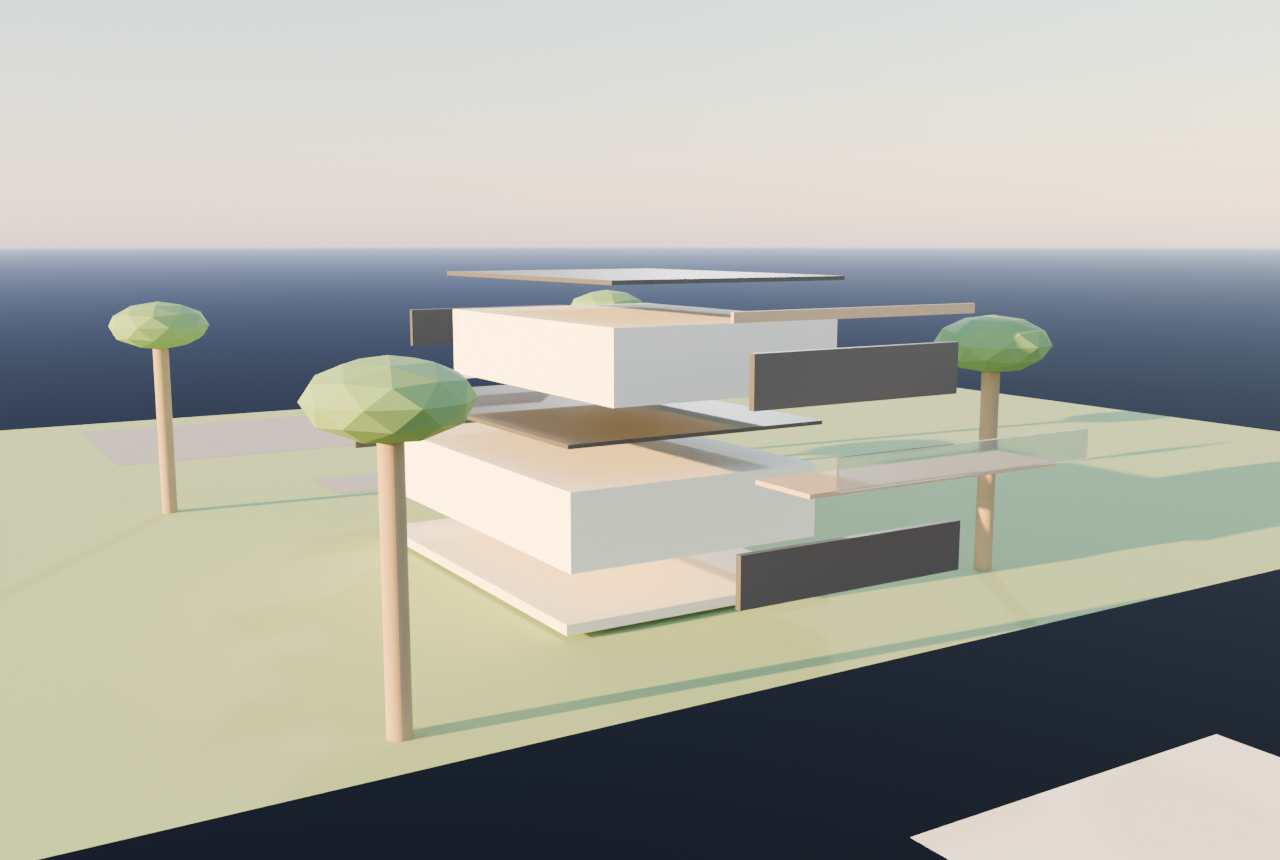
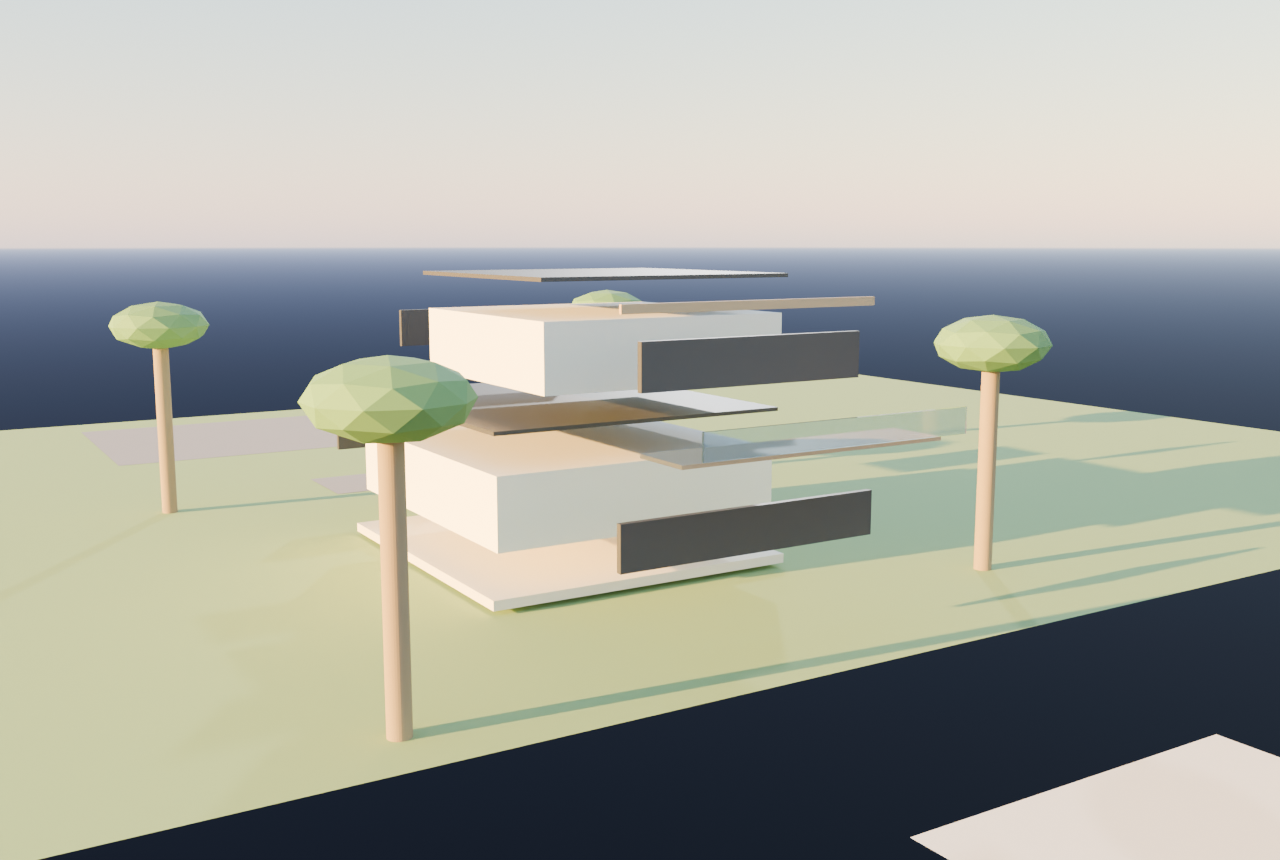
Reconcile model to LiDAR scale; Poisson hole-fill experiment
- Poisson surface reconstruction of scan (cad/scan/poisson_*) - shows the
  scan is too sparse to recover clean geometry (blobs); documented
- Re-scaled the clean parametric model to the scan's real footprint
  (~48x54 ft) so the 'guessed' complete house is grounded in LiDAR scale

diff --git a/tools/blender_second_floor.py b/tools/blender_second_floor.py
@@ -22,11 +22,12 @@ scene = bpy.context.scene
 LOT_W, LOT_D = 60.0, 150.0
 PLINTH = 1.5                       # modest finished-floor lift above grade
 S1H, S2H = 11.0, 10.0
-HX0, HX1 = 9.5, 50.5               # house footprint x
-HY0, HY1 = 20.0, 84.0             # house footprint y (front->bay)
+# footprint scaled to the LiDAR scan: ~48' wide x ~54' deep, on the 60' lot
+HX0, HX1 = 6.0, 54.0               # house footprint x (width ~48')
+HY0, HY1 = 20.0, 74.0             # house footprint y (front->bay, depth ~54')
 ROOF = 0.6
 # second floor: stepped back from street, sits on the flat roof
-S2X0, S2X1 = 12.0, 48.0
+S2X0, S2X1 = 10.0, 50.0
 S2Y0, S2Y1 = 34.0, HY1            # opened toward the bay (rear)
 
 def mat(name, color, rough=0.7, metal=0.0, transmission=0.0, emit=0.0):
